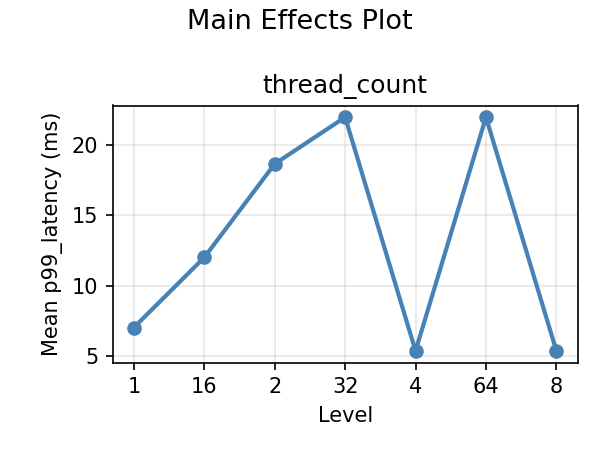
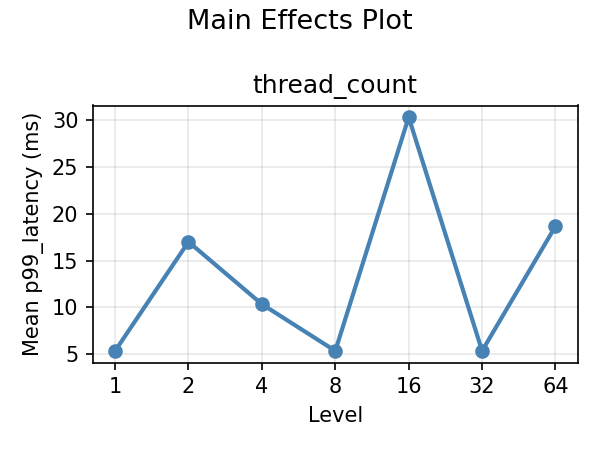
Enhance sorting of levels in analysis functions to handle non-numeric values and update diagnostic images

diff --git a/doe/analysis.py b/doe/analysis.py
@@ -235,7 +235,10 @@ def _compute_main_effects(
             level = run.factor_values[factor_name]
             level_responses.setdefault(level, []).append(responses[run.run_id])
 
-        levels = sorted(level_responses.keys())
+        try:
+            levels = sorted(level_responses.keys(), key=lambda x: float(x))
+        except (ValueError, TypeError):
+            levels = sorted(level_responses.keys())
         if len(levels) == 2:
             low_mean = sum(level_responses[levels[0]]) / len(level_responses[levels[0]])
             high_mean = sum(level_responses[levels[1]]) / len(level_responses[levels[1]])
@@ -620,7 +623,10 @@ def _compute_ordinal_trends(
             level = run.factor_values[fname]
             level_responses.setdefault(level, []).append(responses[run.run_id])
 
-        levels = sorted(level_responses.keys())
+        try:
+            levels = sorted(level_responses.keys(), key=lambda x: float(x))
+        except (ValueError, TypeError):
+            levels = sorted(level_responses.keys())
         k = len(levels)
         if k < 3:
             continue
@@ -799,7 +805,10 @@ def plot_main_effects(
             level = run.factor_values[factor_name]
             level_responses.setdefault(level, []).append(responses[run.run_id])
 
-        levels = sorted(level_responses.keys())
+        try:
+            levels = sorted(level_responses.keys(), key=lambda x: float(x))
+        except (ValueError, TypeError):
+            levels = sorted(level_responses.keys())
         means = [sum(level_responses[lv]) / len(level_responses[lv]) for lv in levels]
 
         ax.plot(levels, means, "o-", color="steelblue", linewidth=2, markersize=6)
